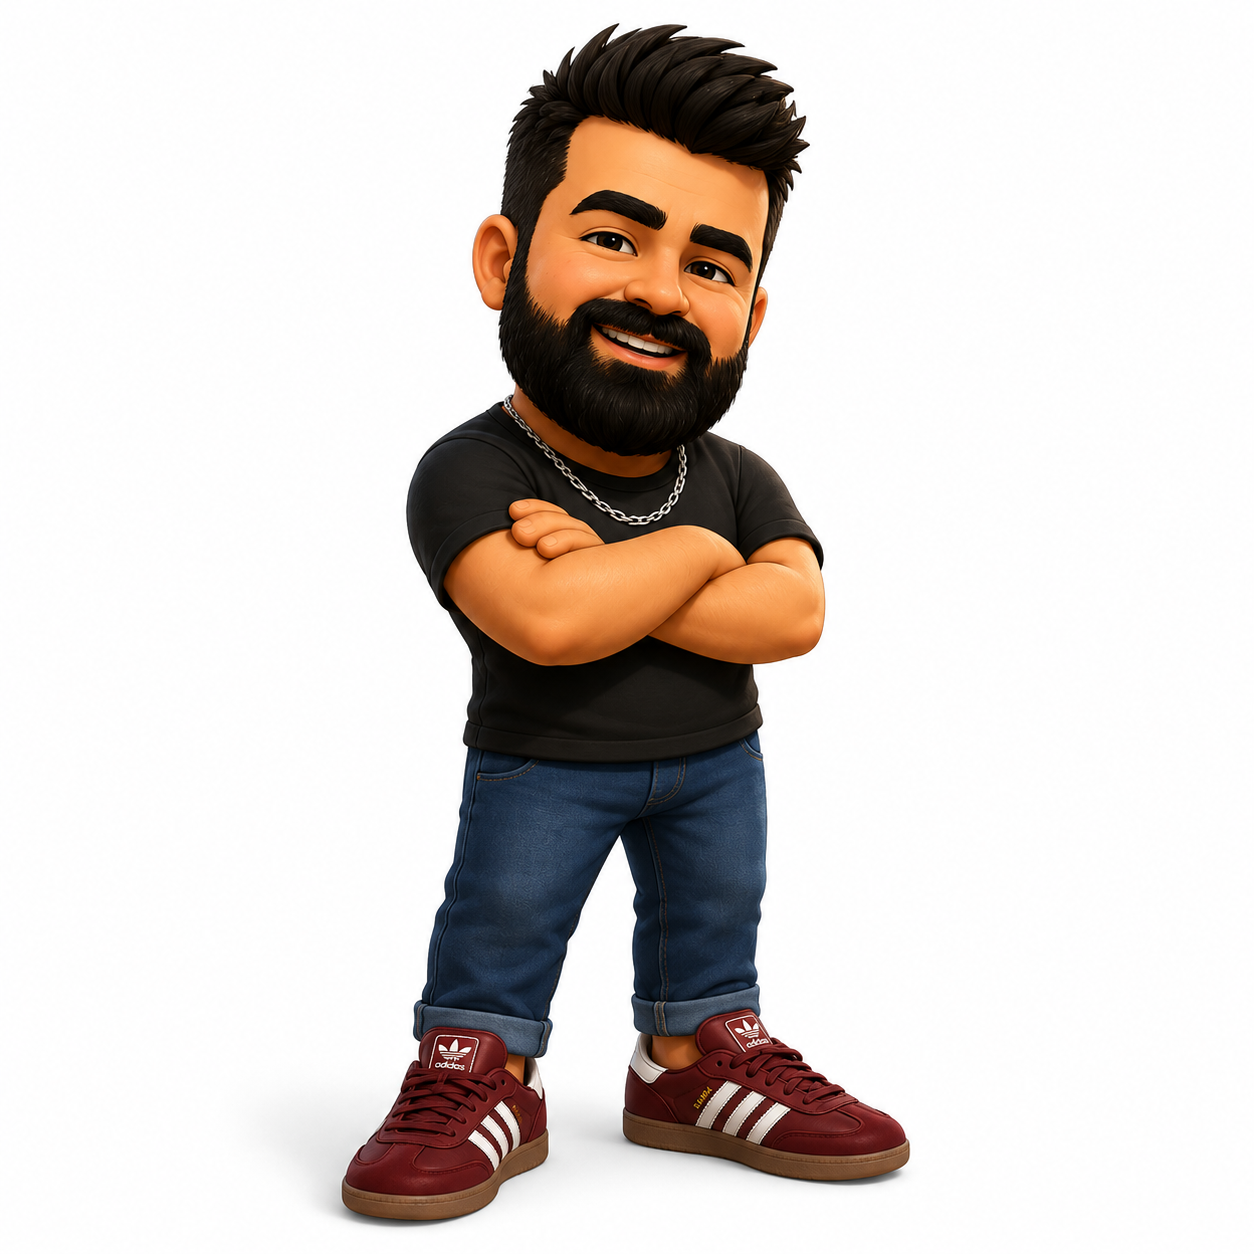
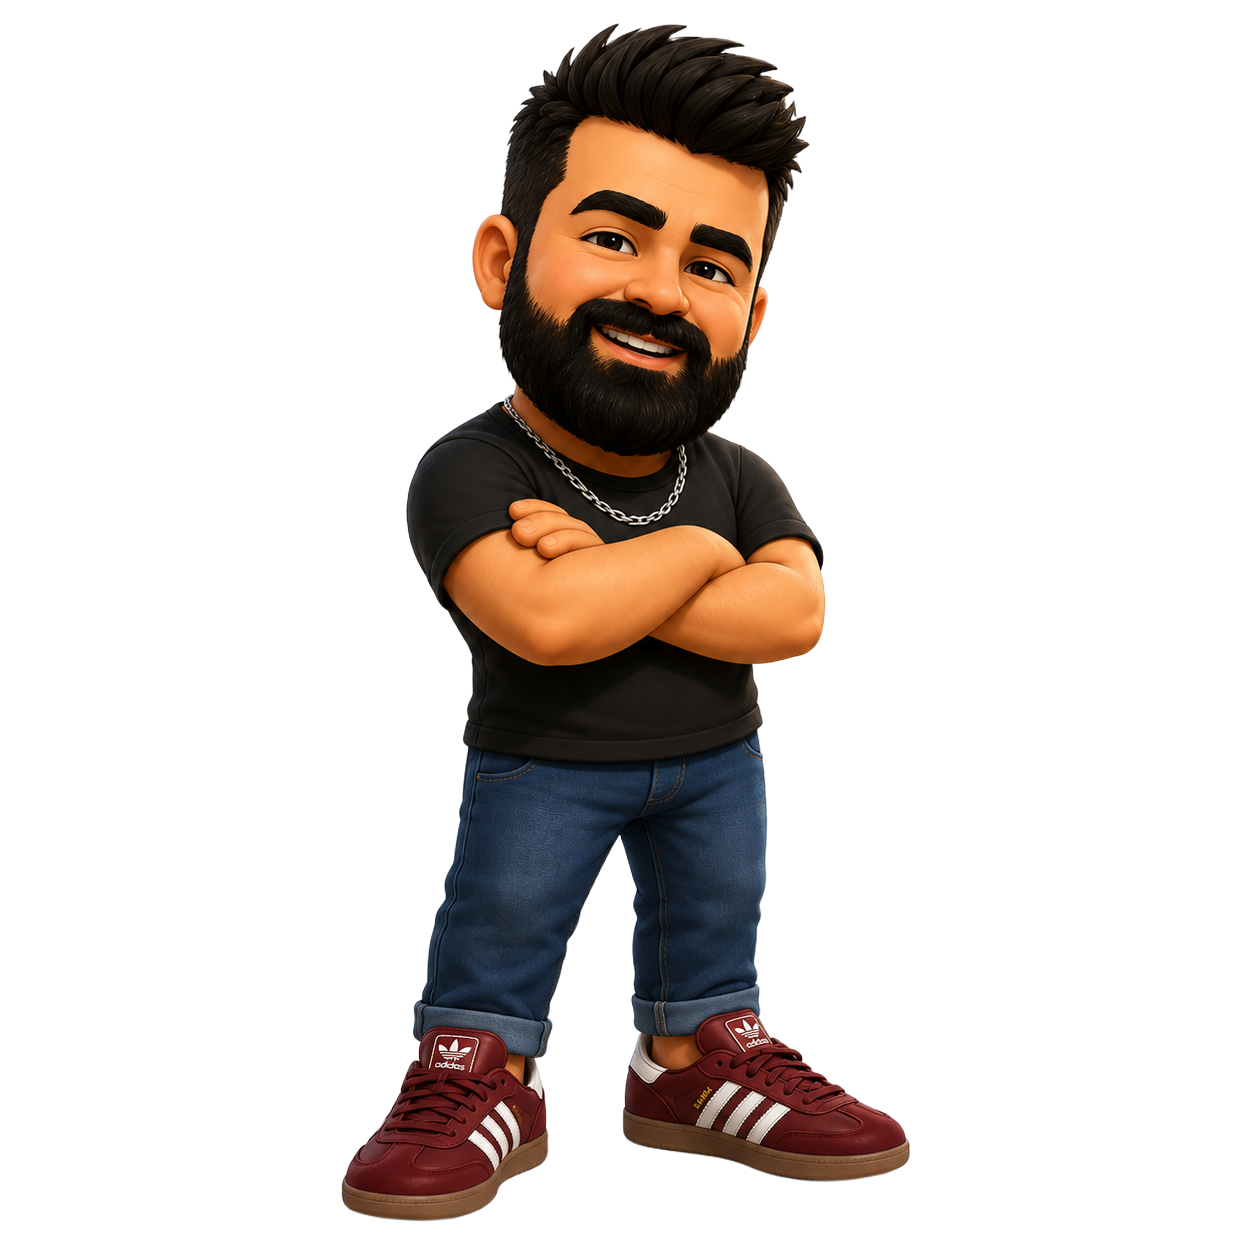
Make Hüseyin move faster and remove white background
Update Huseyin's movement speed by reducing MOVE_INTERVAL and replace the PNG with a transparent version to remove the white background.

Replit-Commit-Author: Agent
Replit-Commit-Session-Id: 9e980c72-d27f-4788-864f-77c5c5270f57
Replit-Commit-Checkpoint-Type: full_checkpoint
Replit-Commit-Event-Id: cd85f17e-51a6-4876-be01-44009ba3b8e0
Replit-Commit-Screenshot-Url: https://storage.googleapis.com/screenshot-production-us-central1/f00991fc-7eee-4fa3-a9fb-54c21c2e1711/9e980c72-d27f-4788-864f-77c5c5270f57/rK2wbxJ
Replit-Helium-Checkpoint-Created: true

diff --git a/artifacts/huseyine-saplak/src/App.tsx b/artifacts/huseyine-saplak/src/App.tsx
@@ -3,7 +3,7 @@ import { useState, useEffect, useRef, useCallback } from "react";
 const GAME_DURATION = 30;
 const CHAR_W = 180;
 const CHAR_H = 200;
-const MOVE_INTERVAL = 1100;
+const MOVE_INTERVAL = 700;
 
 type GamePhase = "start" | "playing" | "ended";
 
